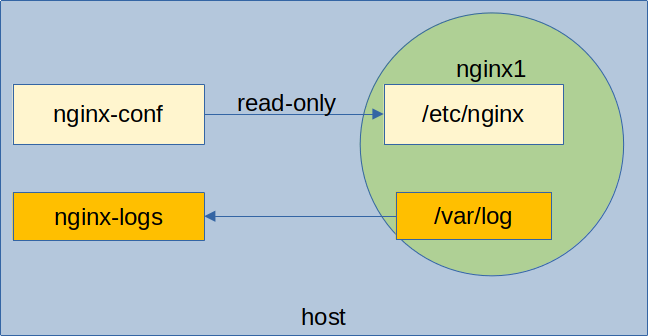
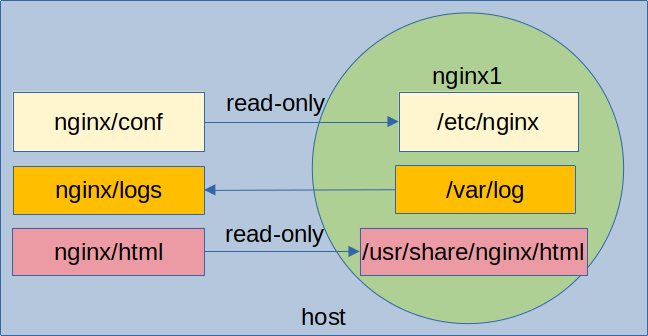
nginx use case

diff --git a/volumes/3-nginx-use-case.md b/volumes/3-nginx-use-case.md
@@ -75,6 +75,8 @@ Now when you access the file, you will see your changes:
 $   curl   localhost:8000/
 ```
 
+Notice the changes are reflected live, no need to restart the container
+
 ## Step-4: Stop the container
 
 ```bash
